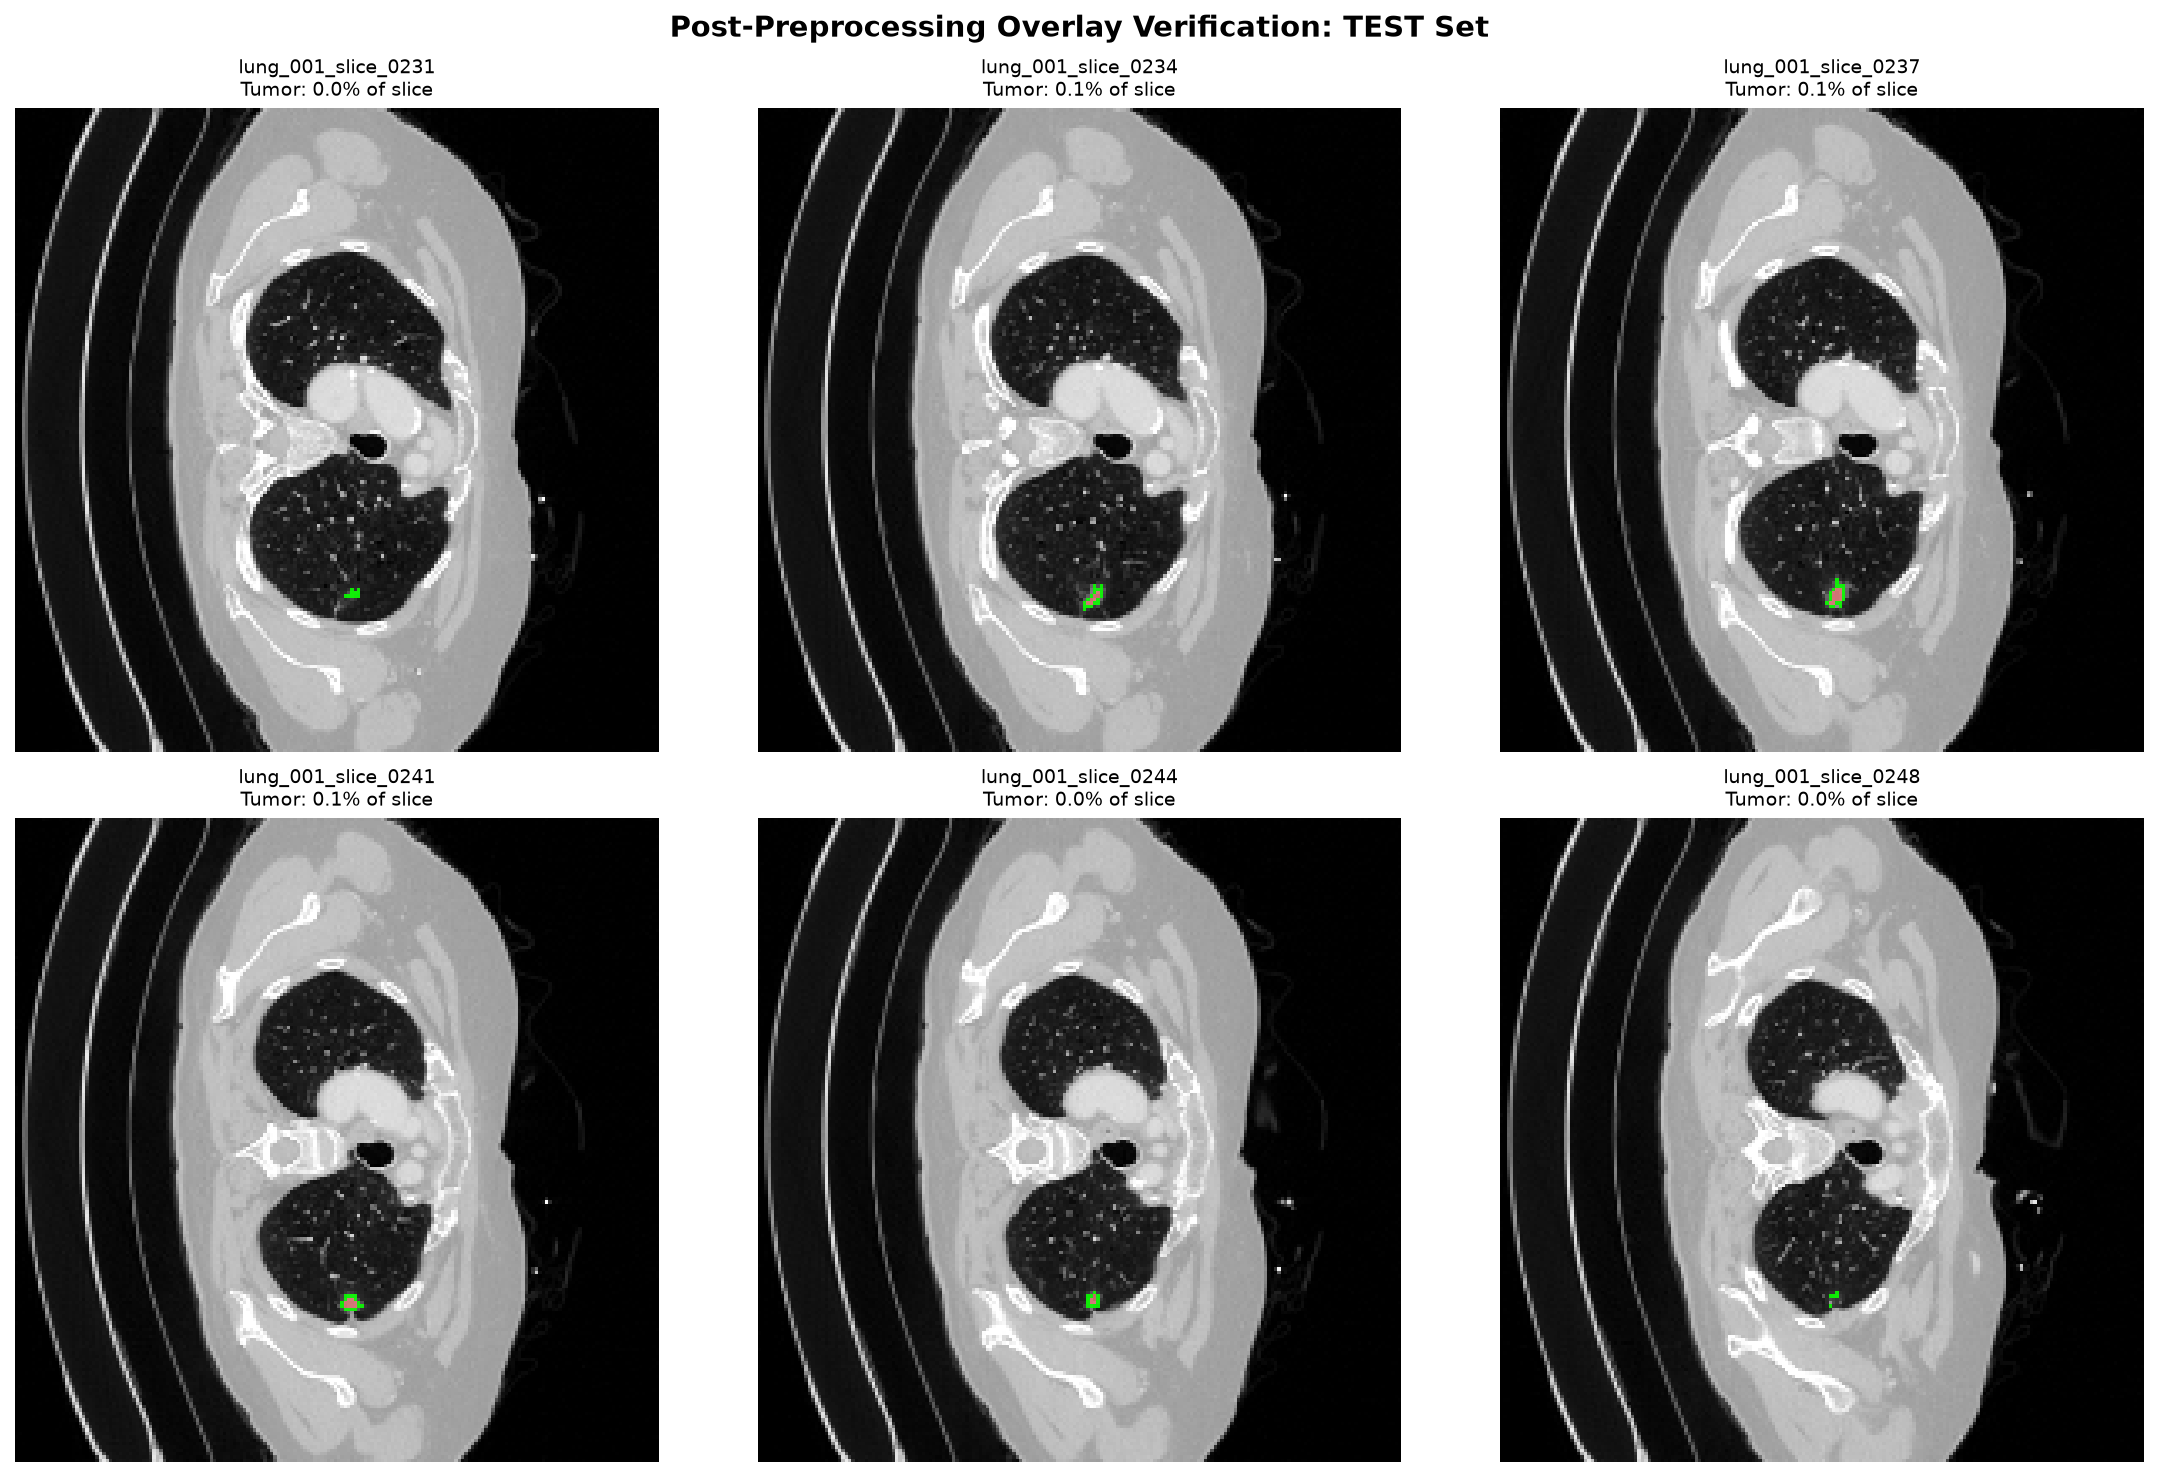
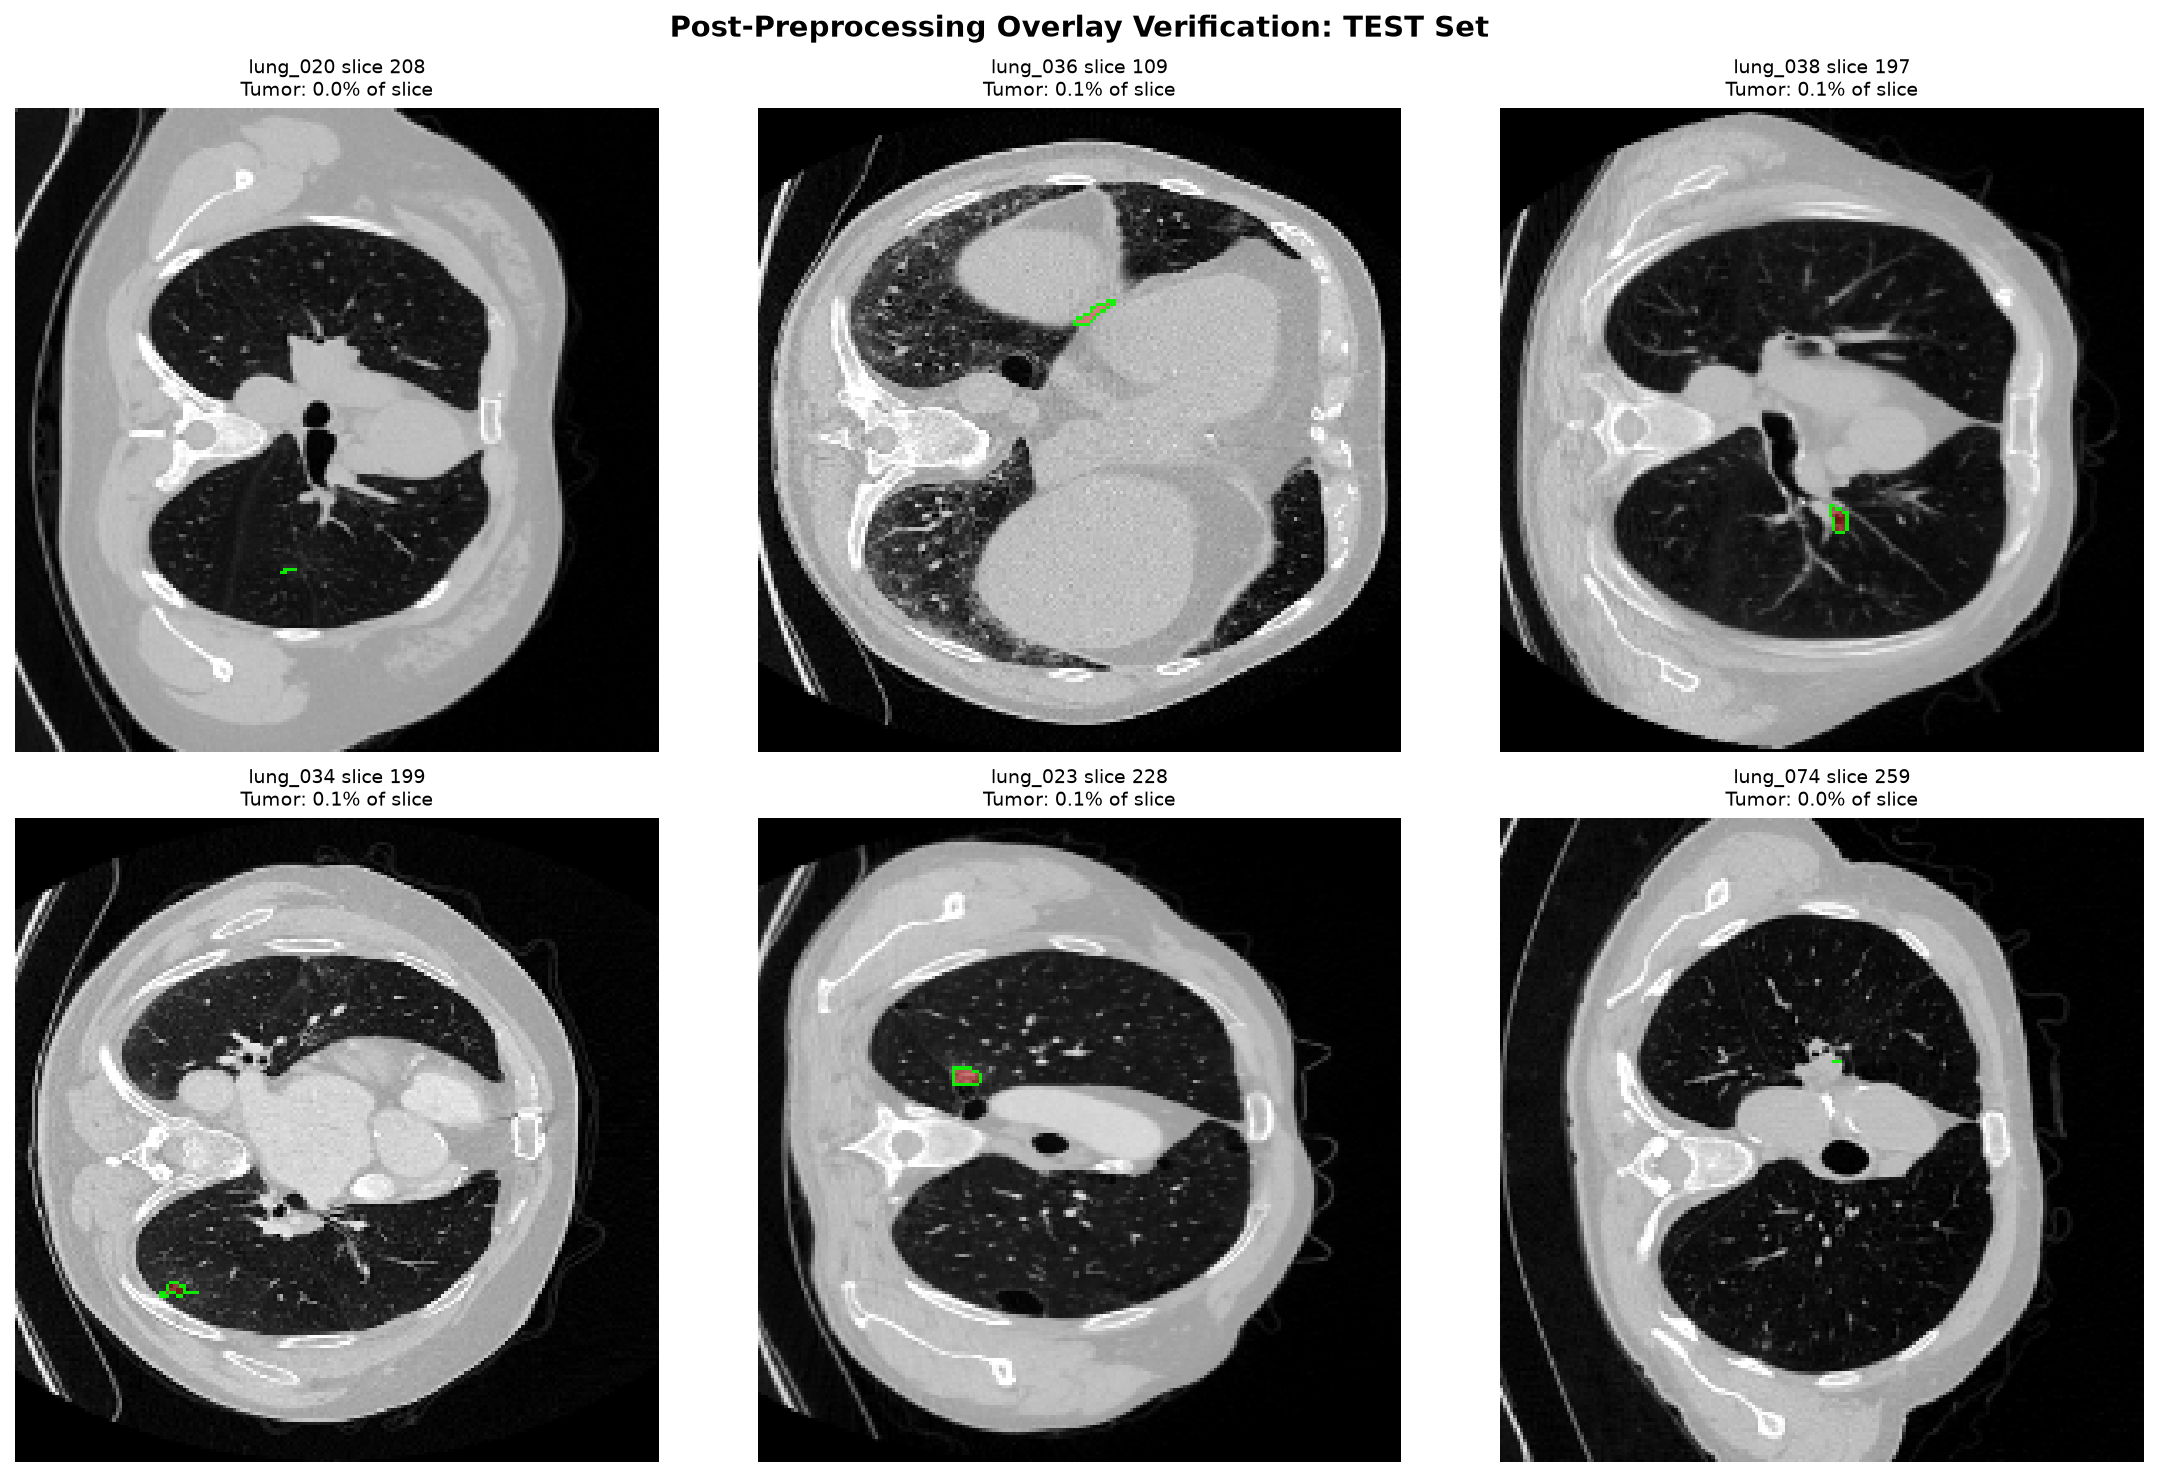
Fixed small errors in documentation

diff --git a/src/visualization/README.md b/src/visualization/README.md
@@ -90,13 +90,3 @@ against the reported value to prove it.
   shared slices under every one of the eight checkpoints.
 - **Threshold slider** starts at the value the run chose on validation, so moving
   it shows what that choice bought.
-
-Surface metrics are behind a checkbox because they are slow: on a 512×512×271
-volume HD95 costs about 44 s, ASD 38 s, and the false-positive component count
-19 s, against 8 s for the whole overlap set. For the reported threshold they are
-already in `test_results_per_patient.csv`; compute them here only after moving
-the threshold or enabling the component filter.
-
-Inference itself is not the bottleneck — about 4 s per patient on CPU for the
-1.6M-parameter models. The geometry round-trip is roughly 7 s. Results are cached
-per (run, patient, threshold), so only the first view of a combination waits.

diff --git a/src/preprocessing/README.md b/src/preprocessing/README.md
@@ -1,8 +1,7 @@
 # Preprocessing
 
 Turns the raw Decathlon archive into the patient split and the preprocessed
-volumes that every experiment trains on. Nothing here is experiment-specific:
-these two scripts run once, and their output is what gets uploaded to Kaggle.
+volumes that every experiment trains on.
 
 | File | Role |
 |---|---|
@@ -74,8 +73,7 @@ output/preprocessing_qc.csv     per-case QC measurements
 
 **One file per patient, not one per slice.** Whole volumes are what make
 positive/negative sampling a *runtime* choice rather than something frozen on
-disk, give a 2.5D model access to a slice's Z-neighbours, and reduce Kaggle I/O
-from roughly 35,000 files to 126.
+disk, giving a 2.5D model access to a slice's Z-neighbours.
 
 ### QC
 

diff --git a/EXPERIMENTS.md b/EXPERIMENTS.md
@@ -75,7 +75,7 @@ ways to fit noise.
 **The pure Tversky family does not fit this problem.** Not because it fails to find
 the tumour — sensitivity is 0.39–0.43, comparable to the baseline's 0.434 — but
 because it paints seven to eight times more volume than exists. The cause is
-structural and is worked out below.
+structural and is worked out [below](#why-tversky-cannot-be-fixed-by-tuning-β).
 
 **Field of view is a variable, not a free choice.** Handing a trained model a
 different field of view at inference than it saw during training costs a large
